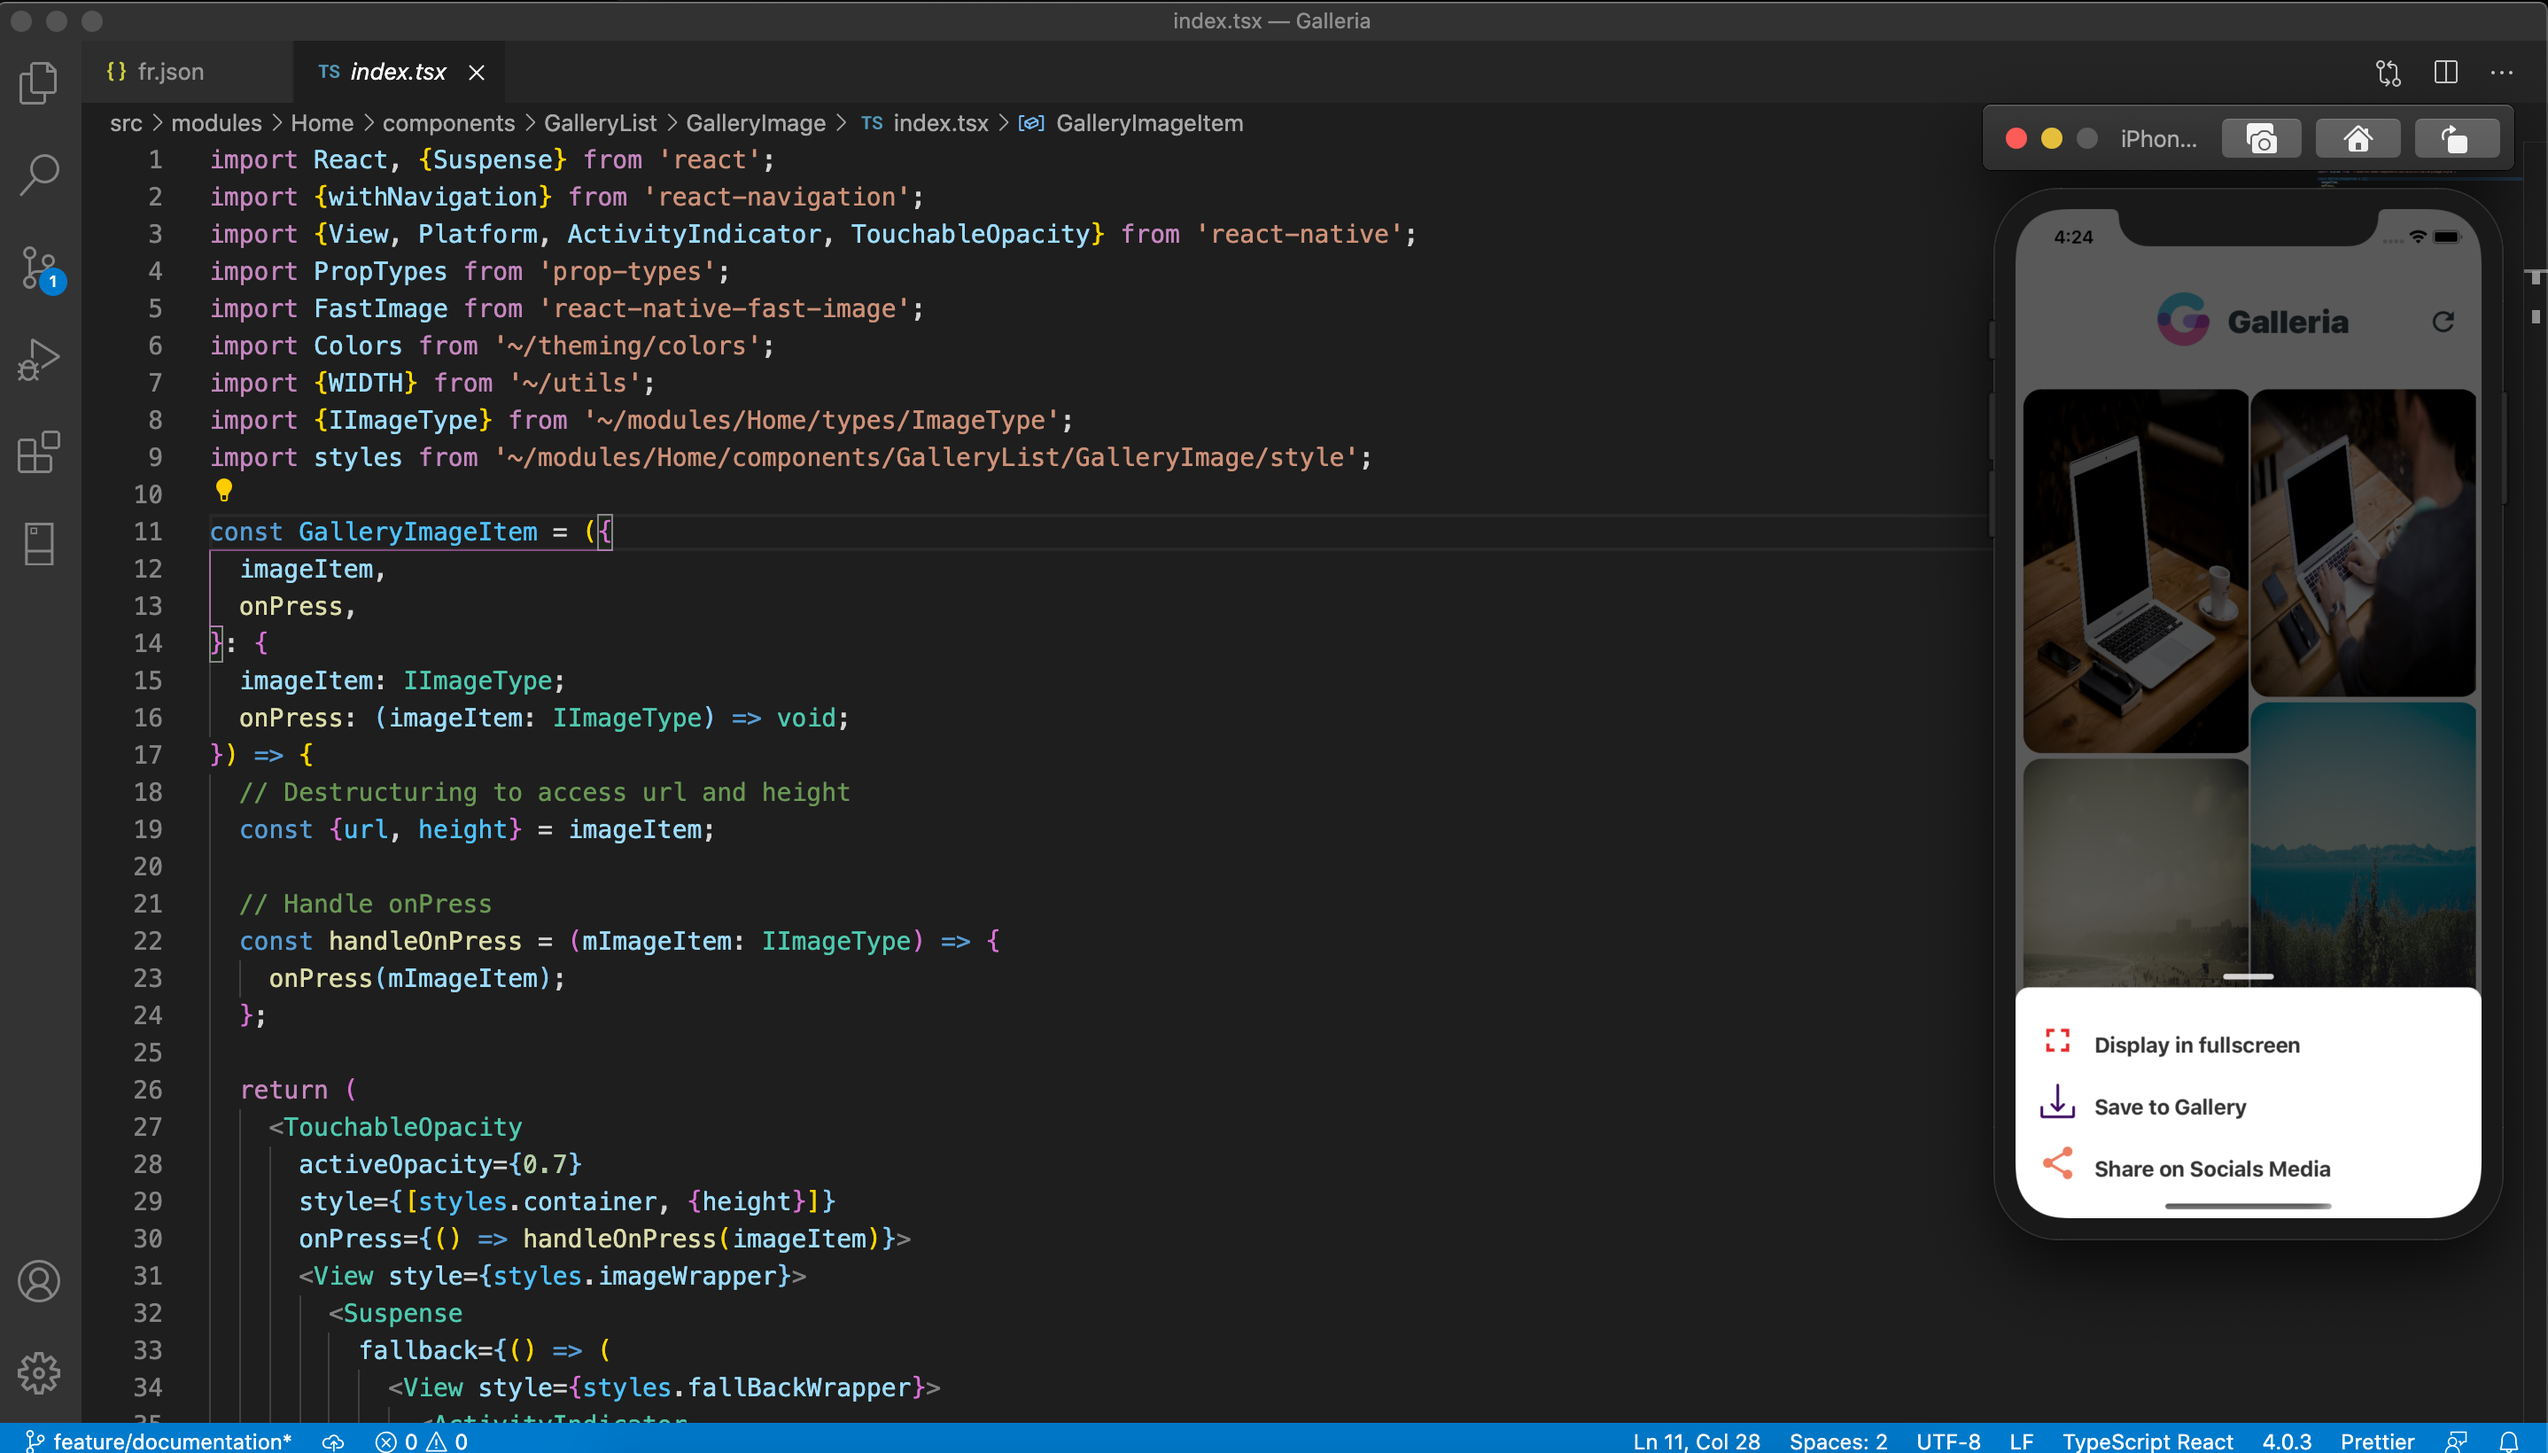
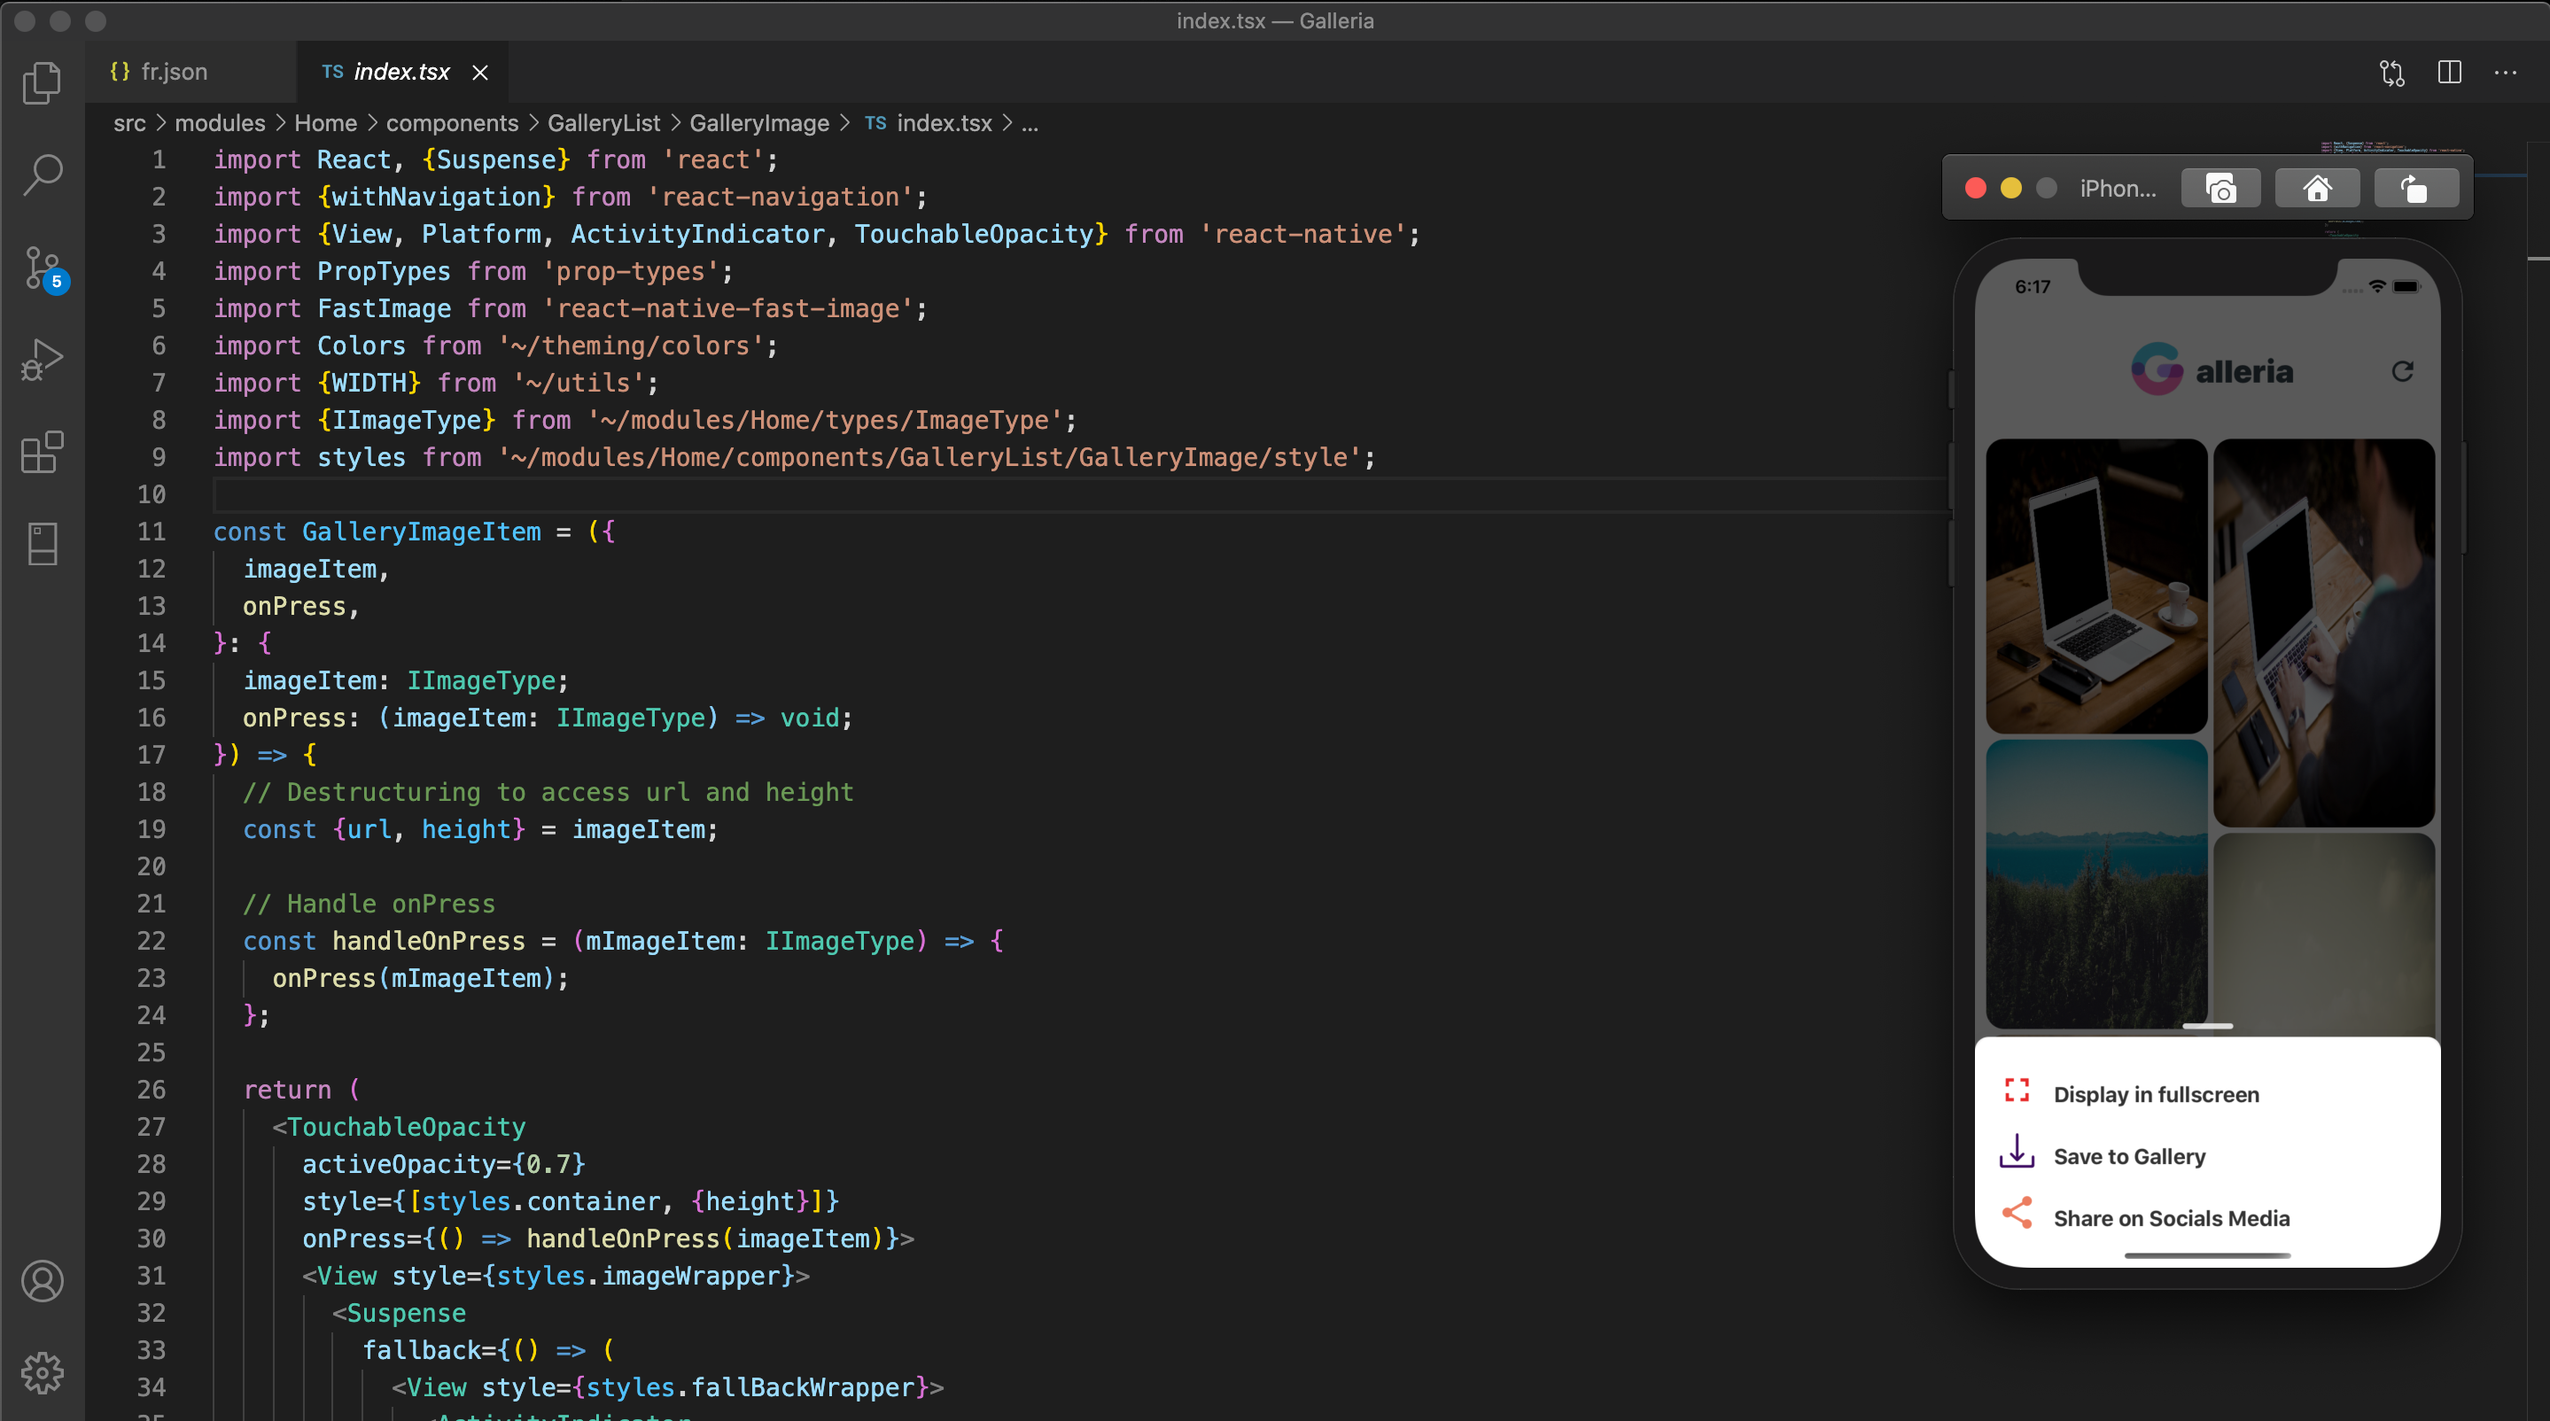
Added new demo screen

diff --git a/src/screens/Home/index.tsx b/src/screens/Home/index.tsx
@@ -246,7 +246,7 @@ const HomeScreen = () => {
               <Touchable>
                 <Image source={logoImage} style={styles.avatar} />
               </Touchable>
-              <Text style={styles.avatarName}>Galleria</Text>
+              <Text style={styles.avatarName}>alleria</Text>
             </View>
             <Icon
               name="refresh"

diff --git a/src/modules/Home/components/GalleryList/GalleryImage/style.ts b/src/modules/Home/components/GalleryList/GalleryImage/style.ts
@@ -16,7 +16,7 @@ const styles = StyleSheet.create({
     overflow: 'hidden',
     alignItems: 'center',
     backgroundColor: colors.lightgray,
-    marginHorizontal: 2,
+    marginHorizontal: 5,
     position: 'relative',
   },
   image: {

diff --git a/src/screens/Home/styles.ts b/src/screens/Home/styles.ts
@@ -42,7 +42,7 @@ const styles = StyleSheet.create({
     fontSize: 28,
     fontWeight: '900',
     color: colors.darkBlue,
-    marginLeft: -20,
+    marginLeft: -25,
   },
   headingText: {
     fontSize: 43,

diff --git a/README.md b/README.md
@@ -24,9 +24,11 @@
 - [x] Implemented some Units and snapshot tests to ensure that app behave as expected (Work In Progress)
 
 
-##  Preview
+##  Preview #1
 ![App-demo](./src/demo/demo1.png)
 
+##  Preview #2
+![App-demo](./src/demo/demo2.png)
 ### Used
 
  - [React Native (with Hooks)](https://reactnative.dev/)
